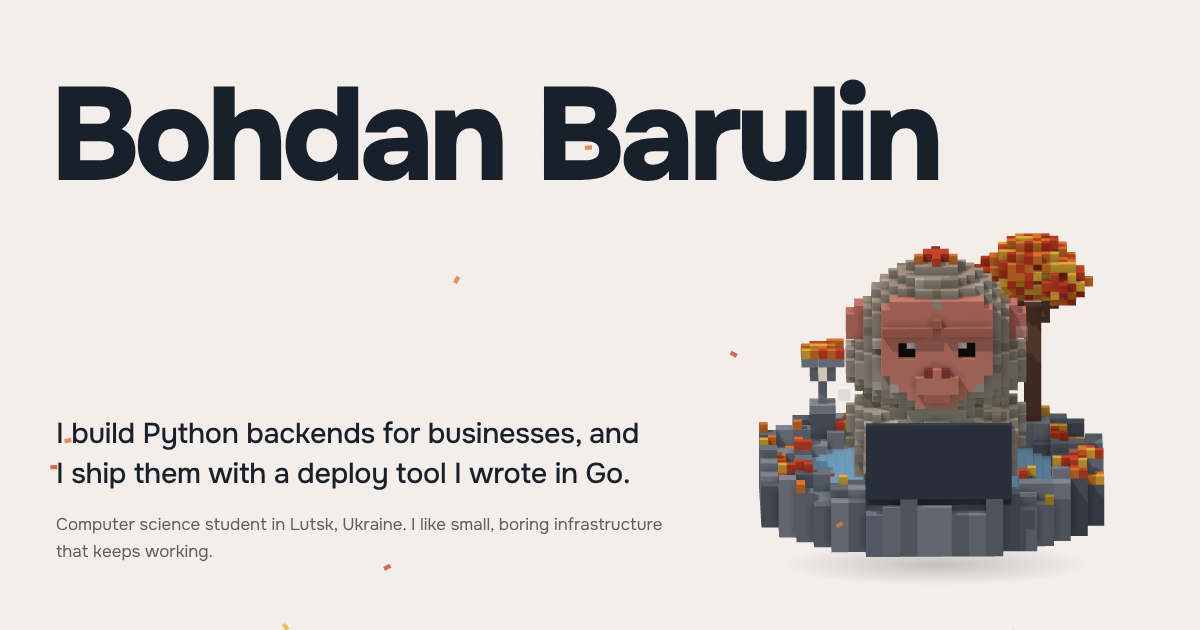
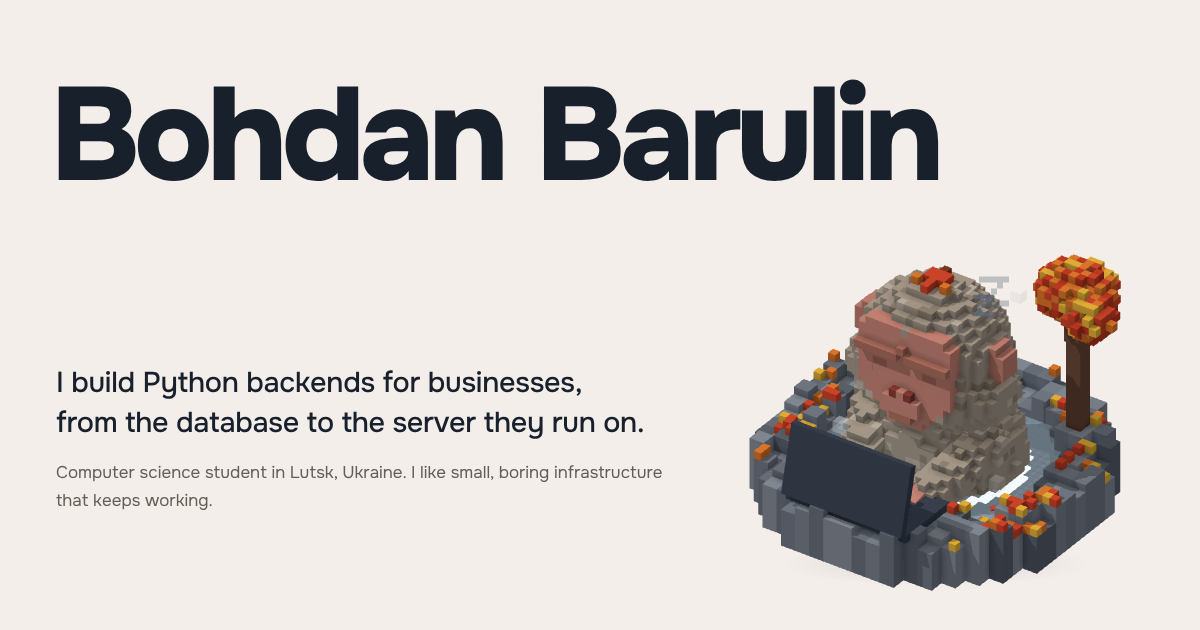
Remove hakobu and Go from the site and CV
Drops the hakobu section, Go mentions in the lede, meta tags and CV,
the now-unused CSS, and re-renders the seasonal link previews.

Claude-Session: https://claude.ai/code/session_01EU6cnSjZrF5bCPaVa1uezA

Changed region(s): [[0.6167, 0.3619, 0.9558, 0.9349], [0.0308, 0.573, 0.555, 0.9048], [0.2158, 0.9952, 0.2467, 1.0]]

diff --git a/site/index.html b/site/index.html
@@ -4,7 +4,7 @@
   <meta charset="utf-8">
   <meta name="viewport" content="width=device-width, initial-scale=1">
   <title>Bohdan Barulin – Python backend developer</title>
-  <meta name="description" content="Bohdan Barulin, Python backend developer in Lutsk, Ukraine. Author of hakobu, an open-source deploy tool written in Go.">
+  <meta name="description" content="Bohdan Barulin, Python backend developer in Lutsk, Ukraine.">
   <link rel="canonical" href="https://x0ryz.dev/">
   <link rel="icon" href="/favicon-winter.svg" type="image/svg+xml">
   <link rel="icon" href="/favicon.ico" sizes="16x16 32x32 48x48">
@@ -18,7 +18,7 @@
   <meta property="profile:last_name" content="Barulin">
   <meta property="og:url" content="https://x0ryz.dev/">
   <meta property="og:title" content="Bohdan Barulin">
-  <meta property="og:description" content="Python backend developer. Author of hakobu, an open-source deploy tool written in Go.">
+  <meta property="og:description" content="Python backend developer in Lutsk, Ukraine.">
   <meta property="og:image" content="https://x0ryz.dev/og.png">
   <meta property="og:image:width" content="1200">
   <meta property="og:image:height" content="630">
@@ -38,7 +38,7 @@
         "image": "https://x0ryz.dev/og.png",
         "email": "mailto:hello@x0ryz.dev",
         "jobTitle": "Python backend developer",
-        "knowsAbout": ["Python", "FastAPI", "PostgreSQL", "Go", "Docker", "Cloudflare"],
+        "knowsAbout": ["Python", "FastAPI", "PostgreSQL", "Docker", "Cloudflare"],
         "address": { "@type": "PostalAddress", "addressLocality": "Lutsk", "addressCountry": "UA" },
         "alumniOf": { "@type": "CollegeOrUniversity", "name": "Lutsk National Technical University" },
         "sameAs": ["https://github.com/x0ryz", "https://www.linkedin.com/in/x0ryz"]
@@ -55,7 +55,7 @@
       <h1><span>Bohdan</span> <span>Barulin</span></h1>
       <div class="intro-bottom">
         <div class="intro-text">
-          <p class="lede">I build Python backends for businesses, and I ship them with a deploy tool I wrote in Go.</p>
+          <p class="lede">I build Python backends for businesses, from the database to the server they run on.</p>
           <p>Computer science student in Lutsk, Ukraine. I like small, boring infrastructure that keeps working.</p>
           <p class="links reach">
             <a href="mailto:hello@x0ryz.dev">hello@x0ryz.dev</a>
@@ -88,24 +88,6 @@
           <p class="when">Spring 2026</p>
           <p>Browser automation for multi-step sign-up and verification flows on a platform with strict bot protection: Camoufox with fingerprint management, ten parallel workers, and SMS APIs for one-time codes.</p>
         </article>
-      </div>
-    </section>
-
-    <section class="row feature" aria-labelledby="hakobu">
-      <div class="side">
-        <h2 id="hakobu"><a href="https://github.com/hakobudev/hakobu">hakobu</a></h2>
-        <p class="kind">Open source, Go, MIT</p>
-      </div>
-      <div class="body">
-        <p>Deploys apps from GitHub to servers you own. Push to the default branch, and hakobu builds the new version and swaps it in with no downtime, behind a Cloudflare&nbsp;Tunnel, so the server needs no open ports.</p>
-        <ul class="facts">
-          <li>Blue/green deploys with rollback, including the database</li>
-          <li>Postgres, Valkey and R2 storage per project</li>
-          <li>Encrypted backups that are test-restored after every upload</li>
-          <li>Sentry-compatible errors, logs and traces kept on your server</li>
-          <li>One binary with SQLite, rootless Docker, signed releases</li>
-        </ul>
-        <p class="links"><a href="https://hakobu.dev">hakobu.dev</a> <a href="https://hakobu.dev/docs/">Docs</a> <a href="https://github.com/hakobudev/hakobu">Source</a></p>
       </div>
     </section>
 

diff --git a/site/style.css b/site/style.css
@@ -174,7 +174,7 @@ a:focus-visible {
   border-top: 1px solid var(--rule);
 }
 .body > * + * { margin-top: 1rem; }
-.body > p, .facts { max-width: var(--measure); }
+.body > p { max-width: var(--measure); }
 .side { margin-bottom: 1rem; }
 
 @media (min-width: 56rem) {
@@ -191,27 +191,6 @@ h2 {
   font-weight: 500;
   color: var(--muted);
 }
-
-/* hakobu */
-.feature h2 {
-  font-size: clamp(2.25rem, 4vw, 3rem);
-  font-weight: 800;
-  letter-spacing: -0.035em;
-  line-height: 1.1;
-  color: var(--ink);
-}
-.feature h2 a { color: inherit; text-decoration: none; }
-.feature h2 a:hover { text-decoration: underline; text-decoration-thickness: 2px; }
-
-.facts {
-  padding: 0;
-  list-style: none;
-}
-.facts li {
-  padding: 0.55rem 0;
-  border-bottom: 1px solid var(--rule);
-}
-.facts li:first-child { border-top: 1px solid var(--rule); }
 
 /* Experience */
 .jobs article + article {
@@ -248,7 +227,6 @@ h2 {
   outline-offset: -3.5rem;
   border-radius: 4.5rem;
 }
-.side .kind { margin-top: 0.25rem; color: var(--muted); }
 
 /* The hot spring at the foot of the page, drawn by monkey.js. It reaches up behind the
    contact section, so the steam rises behind the links; without the script it takes no room. */
@@ -275,7 +253,6 @@ h2 {
 /* Printed, the page is a plain one-column document */
 @media print {
   :root, :root[data-season] { --paper: #fff; --ink: #000; --muted: #444; --rule: #bbb; --link: #000; }
-  .feature h2 { font-size: 18pt; }
   .monkey3d, .clock, .onsen { display: none !important; }
   body { font-size: 11pt; }
   main { max-width: none; padding: 0; }
